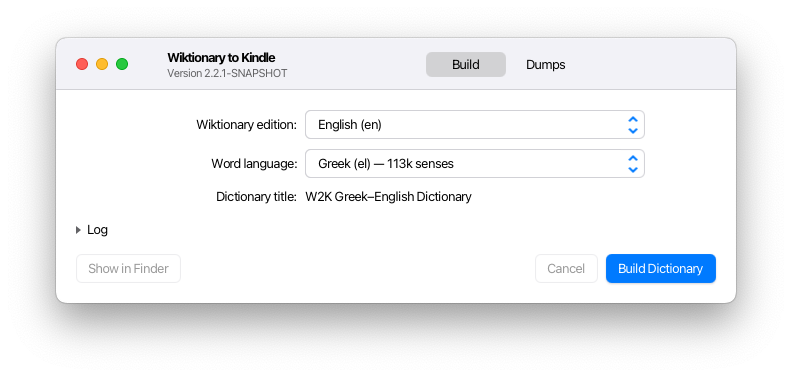
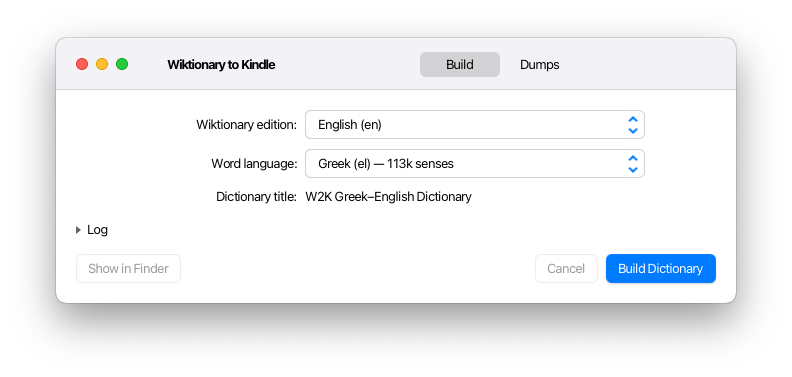
fix(gui): fix header dragging and ⌘, and move the macOS version to About (#112)

Changed region(s): [[0.5152, 0.1459, 0.7273, 0.2042], [0.2121, 0.1167, 0.3636, 0.2042]]

diff --git a/src/main/resources/edu/self/w2k/gui/app.css b/src/main/resources/edu/self/w2k/gui/app.css
@@ -25,17 +25,8 @@
 }
 
 .window-title {
-    -fx-alignment: center-left;
     -fx-padding: 0 0 0 8px;
-}
-
-.window-title-name {
     -fx-font-weight: bold;
-}
-
-.window-subtitle {
-    -fx-font-size: 11px;
-    -fx-opacity: 0.6;
 }
 
 .segmented {

diff --git a/src/test/java/edu/self/w2k/gui/MainFxmlLoadTest.java b/src/test/java/edu/self/w2k/gui/MainFxmlLoadTest.java
@@ -28,12 +28,14 @@ import javafx.beans.value.ObservableValue;
 import javafx.event.Event;
 import javafx.event.EventType;
 import javafx.fxml.FXMLLoader;
+import javafx.geometry.Bounds;
 import javafx.scene.Node;
 import javafx.scene.Parent;
 import javafx.scene.Scene;
 import javafx.scene.control.Button;
 import javafx.scene.control.ComboBox;
 import javafx.scene.control.IndexedCell;
+import javafx.scene.control.Label;
 import javafx.scene.control.ListCell;
 import javafx.scene.control.ListView;
 import javafx.scene.control.MenuBar;
@@ -44,10 +46,12 @@ import javafx.scene.control.skin.ComboBoxListViewSkin;
 import javafx.scene.control.skin.VirtualFlow;
 import javafx.scene.layout.BorderPane;
 import javafx.scene.layout.HBox;
+import javafx.scene.layout.HeaderBar;
 import javafx.scene.layout.VBox;
 import javafx.scene.text.Text;
 import javafx.scene.input.Clipboard;
 import javafx.scene.input.KeyCode;
+import javafx.scene.input.KeyCombination;
 import javafx.scene.input.KeyEvent;
 import javafx.scene.input.MouseButton;
 import javafx.scene.input.MouseEvent;
@@ -429,7 +433,7 @@ class MainFxmlLoadTest {
 
         assertThat(root.get().getStyleClass()).contains(styleClass);
         assertThat(root.get().lookupAll(".form-label")).first()
-                .extracting(label -> ((javafx.scene.control.Label) label).getText())
+                .extracting(label -> ((Label) label).getText())
                 .isEqualTo(firstLabel);
         assertThat(((HBox) startButton.getParent()).getChildren().stream()
                            .filter(Button.class::isInstance)
@@ -439,6 +443,96 @@ class MainFxmlLoadTest {
         assertThat(menuBar.isManaged()).as("menu bar laid out in the window").isEqualTo(menuBarInWindow);
         assertThat(primaryMenuButton.isVisible()).as("primary menu button shown").isEqualTo(primaryMenu);
         assertThat(primaryMenuButton.getItems().isEmpty()).isEqualTo(!primaryMenu);
+    }
+
+    @ParameterizedTest
+    @CsvSource({
+            "MACOS, Shortcut+Comma",
+            "GNOME, Shortcut+Q",
+    })
+    void should_answer_the_shortcut_on_the_scene_when_the_desktop_menus_cannot(DesktopPlatform platform,
+                                                                               String shortcut)
+            throws Exception {
+        if (!toolkitReady) {
+            abort("No JavaFX toolkit available");
+        }
+
+        AtomicReference<Parent> root = new AtomicReference<>();
+        MainController controller = loadOnFxThread(root, platform);
+        AtomicReference<Scene> scene = new AtomicReference<>();
+
+        onFxThread(() -> {
+            scene.set(new Scene(root.get()));
+            controller.attachTo(new Stage());
+        });
+
+        assertThat(scene.get().getAccelerators()).containsKey(KeyCombination.keyCombination(shortcut));
+    }
+
+    @Test
+    void should_title_the_macos_header_with_the_app_name_alone_when_attached_to_a_stage() throws Exception {
+        if (!toolkitReady) {
+            abort("No JavaFX toolkit available");
+        }
+
+        AtomicReference<Parent> root = new AtomicReference<>();
+        MainController controller = loadOnFxThread(root, DesktopPlatform.MACOS);
+        Label windowTitle = readField(controller, "windowTitle", Label.class);
+
+        onFxThread(() -> {
+            new Scene(root.get());
+            controller.attachTo(new Stage());
+        });
+
+        assertThat(windowTitle.isVisible()).isTrue();
+        assertThat(windowTitle.getText()).isEqualTo("Wiktionary to Kindle");
+    }
+
+    @ParameterizedTest
+    @CsvSource({"MACOS", "GNOME"})
+    void should_drag_the_window_from_anywhere_in_the_header_but_its_buttons_when_it_is_the_title_bar(
+            DesktopPlatform platform) throws Exception {
+        if (!toolkitReady) {
+            abort("No JavaFX toolkit available");
+        }
+
+        AtomicReference<Parent> root = new AtomicReference<>();
+        MainController controller = loadOnFxThread(root, platform);
+        HeaderBar headerBar = readField(controller, "headerBar", HeaderBar.class);
+        Node switcher = readField(controller, "pageSwitcher", Node.class);
+        Node buildPageButton = readField(controller, "buildPageButton", Node.class);
+        Node dumpsPageButton = readField(controller, "dumpsPageButton", Node.class);
+        AtomicReference<Scene> scene = new AtomicReference<>();
+        AtomicReference<Stage> stage = new AtomicReference<>();
+        CountDownLatch laidOut = new CountDownLatch(1);
+
+        onFxThread(() -> {
+            scene.set(new Scene(root.get(), 680, 400));
+            scene.get().getStylesheets().add(App.class.getResource(App.STYLESHEET).toExternalForm());
+            scene.get().addPostLayoutPulseListener(laidOut::countDown);
+            stage.set(new Stage());
+            controller.attachTo(stage.get());
+            stage.get().setScene(scene.get());
+            stage.get().setX(-4000);
+            stage.get().show();
+            Platform.requestNextPulse();
+        });
+        assertThat(laidOut.await(30, TimeUnit.SECONDS)).as("layout pulse timed out").isTrue();
+
+        Bounds bar = headerBar.localToScene(headerBar.getLayoutBounds());
+        Bounds slot = switcher.localToScene(switcher.getLayoutBounds());
+        Bounds first = buildPageButton.localToScene(buildPageButton.getLayoutBounds());
+        Bounds last = dumpsPageButton.localToScene(dumpsPageButton.getLayoutBounds());
+        double middle = bar.getCenterY();
+        assertThat(headerArea(scene.get(), (bar.getMinX() + slot.getMinX()) / 2, middle)).as("left of the switcher")
+                .isEqualTo("DRAGBAR");
+        assertThat(headerArea(scene.get(), (slot.getMinX() + first.getMinX()) / 2, middle))
+                .as("between the switcher's edge and its first button").isEqualTo("DRAGBAR");
+        assertThat(headerArea(scene.get(), (last.getMaxX() + slot.getMaxX()) / 2, middle))
+                .as("between the switcher's last button and its edge").isEqualTo("DRAGBAR");
+        assertThat(headerArea(scene.get(), first.getCenterX(), first.getCenterY())).as("a switcher button")
+                .isNotEqualTo("DRAGBAR");
+        onFxThread(() -> stage.get().hide());
     }
 
     @Test
@@ -760,6 +854,26 @@ class MainFxmlLoadTest {
                 .contains("created on the first download");
         assertThat(MainController.dumpsPlaceholder(Path.of(System.getProperty("java.io.tmpdir"))))
                 .isEqualTo("No dumps downloaded yet.");
+    }
+
+    /** JavaFX exposes no public hit test for the draggable header area, so this asks the one glass uses. */
+    private static String headerArea(Scene scene, double x, double y) throws Exception {
+        Class<?> listenerType = Class.forName("javafx.scene.Scene$ScenePeerListener");
+        var constructor = listenerType.getDeclaredConstructor(Scene.class);
+        constructor.setAccessible(true);
+        Object listener = constructor.newInstance(scene);
+        var pick = listenerType.getMethod("pickHeaderArea", double.class, double.class);
+        pick.setAccessible(true);
+        AtomicReference<Object> area = new AtomicReference<>();
+        onFxThread(() -> {
+            try {
+                area.set(pick.invoke(listener, x, y));
+            }
+            catch (ReflectiveOperationException e) {
+                throw new IllegalStateException(e);
+            }
+        });
+        return String.valueOf(area.get());
     }
 
     private static void onFxThread(Runnable action) throws Exception {

diff --git a/src/main/java/edu/self/w2k/gui/MainController.java b/src/main/java/edu/self/w2k/gui/MainController.java
@@ -32,6 +32,7 @@ import javafx.collections.FXCollections;
 import javafx.css.PseudoClass;
 import javafx.fxml.FXML;
 import javafx.scene.Node;
+import javafx.scene.Scene;
 import javafx.scene.control.Alert;
 import javafx.scene.control.Button;
 import javafx.scene.control.ComboBox;
@@ -47,10 +48,10 @@ import javafx.scene.control.TableView;
 import javafx.scene.control.ToggleButton;
 import javafx.scene.control.ToggleGroup;
 import javafx.scene.control.skin.VirtualFlow;
-import javafx.scene.input.KeyCombination;
 import javafx.scene.layout.BorderPane;
 import javafx.scene.layout.HBox;
 import javafx.scene.layout.HeaderBar;
+import javafx.scene.layout.HeaderDragType;
 import javafx.scene.layout.Region;
 import javafx.scene.layout.VBox;
 import javafx.stage.Stage;
@@ -98,9 +99,7 @@ public class MainController {
     @FXML private HeaderBar headerBar;
     @FXML private HBox pageSwitcher;
     @FXML private MenuButton primaryMenuButton;
-    @FXML private VBox windowTitle;
-    @FXML private Label windowTitleName;
-    @FXML private Label windowSubtitle;
+    @FXML private Label windowTitle;
     @FXML private ToggleGroup pageGroup;
     @FXML private ToggleButton buildPageButton;
     @FXML private ToggleButton dumpsPageButton;
@@ -236,6 +235,7 @@ public class MainController {
      */
     private Region balancingSpacer(Stage stage) {
         Region spacer = new Region();
+        HeaderBar.setDragType(spacer, HeaderDragType.DRAGGABLE);
         spacer.minWidthProperty().bind(Bindings.createDoubleBinding(
                 () -> Math.max(0, primaryMenuButton.getWidth()
                                   + HeaderBar.getRightSystemInset(stage).getWidth()
@@ -260,8 +260,7 @@ public class MainController {
             stage.initStyle(StageStyle.EXTENDED);
         }
         if (platform == DesktopPlatform.MACOS) {
-            windowTitleName.setText(AppInfo.DISPLAY_NAME);
-            windowSubtitle.setText("Version " + AppVersion.get());
+            windowTitle.setText(AppInfo.DISPLAY_NAME);
             windowTitle.setVisible(true);
             headerBar.setMinHeight(UNIFIED_TITLE_BAR_HEIGHT);
             HeaderBar.setSystemButtonHeight(stage, UNIFIED_TITLE_BAR_HEIGHT);
@@ -270,8 +269,18 @@ public class MainController {
             headerBar.setMinHeight(GNOME_HEADER_BAR_HEIGHT);
             headerBar.setLeft(balancingSpacer(stage));
         }
-        if (platform.hasQuitShortcut() && root.getScene() != null) {
-            root.getScene().getAccelerators().put(KeyCombination.keyCombination("Shortcut+Q"), Platform::exit);
+        if (root.getScene() != null) {
+            addSceneShortcuts(root.getScene());
+        }
+    }
+
+    private void addSceneShortcuts(Scene scene) {
+        if (platform.hasQuitShortcut()) {
+            scene.getAccelerators().put(AppMenus.QUIT_SHORTCUT, Platform::exit);
+        }
+        // macOS drops the system menu's key equivalent whenever a text field has focus, so the scene answers it too.
+        if (platform.menuStyle() == DesktopPlatform.MenuStyle.SYSTEM_MENU_BAR) {
+            scene.getAccelerators().put(AppMenus.SETTINGS_SHORTCUT, this::onPreferences);
         }
     }
 

diff --git a/src/main/java/edu/self/w2k/gui/AppMenus.java b/src/main/java/edu/self/w2k/gui/AppMenus.java
@@ -16,7 +16,9 @@ final class AppMenus {
 
     static final String ABOUT = "About " + AppInfo.DISPLAY_NAME;
 
-    private static final String SETTINGS_SHORTCUT = "Shortcut+Comma";
+    static final KeyCombination SETTINGS_SHORTCUT = KeyCombination.keyCombination("Shortcut+Comma");
+
+    static final KeyCombination QUIT_SHORTCUT = KeyCombination.keyCombination("Shortcut+Q");
 
     record Actions(Runnable settings, Runnable about, Runnable quit) {
     }
@@ -26,15 +28,17 @@ final class AppMenus {
 
     static List<Menu> menuBar(DesktopPlatform platform, Actions actions) {
         return switch (platform) {
-            case MACOS -> List.of(menu("File", item("Settings…", SETTINGS_SHORTCUT, actions.settings())));
+            case MACOS -> List.of(menu("File", item("Settings…", SETTINGS_SHORTCUT, actions.settings())),
+                                  menu("Help", item(ABOUT, null, actions.about())));
             case WINDOWS -> List.of(menu("_File",
                                          item("_Settings…", SETTINGS_SHORTCUT, actions.settings()),
                                          new SeparatorMenuItem(),
                                          item("E_xit", null, actions.quit())),
                                     menu("_Help", item("_" + ABOUT, null, actions.about())));
-            case KDE -> List.of(menu("_File", item("_Quit", "Shortcut+Q", actions.quit())),
+            case KDE -> List.of(menu("_File", item("_Quit", QUIT_SHORTCUT, actions.quit())),
                                 menu("_Settings",
-                                     item("_Configure " + AppInfo.DISPLAY_NAME + "…", "Shortcut+Shift+Comma",
+                                     item("_Configure " + AppInfo.DISPLAY_NAME + "…",
+                                          KeyCombination.keyCombination("Shortcut+Shift+Comma"),
                                           actions.settings())),
                                 menu("_Help", item("_" + ABOUT, null, actions.about())));
             case GNOME -> List.of();
@@ -54,11 +58,9 @@ final class AppMenus {
         return new Menu(text, null, items);
     }
 
-    private static MenuItem item(String text, String accelerator, Runnable action) {
+    private static MenuItem item(String text, KeyCombination accelerator, Runnable action) {
         MenuItem item = new MenuItem(text);
-        if (accelerator != null) {
-            item.setAccelerator(KeyCombination.keyCombination(accelerator));
-        }
+        item.setAccelerator(accelerator);
         item.setOnAction(_ -> action.run());
         return item;
     }

diff --git a/src/test/java/edu/self/w2k/gui/AppMenusTest.java b/src/test/java/edu/self/w2k/gui/AppMenusTest.java
@@ -53,7 +53,7 @@ class AppMenusTest {
     }
 
     @Test
-    void should_offer_only_settings_when_on_macos() {
+    void should_put_settings_under_file_and_about_under_help_when_on_macos() {
         // Given
         AppMenus.Actions actions = new AppMenus.Actions(settings, about, quit);
 
@@ -61,10 +61,12 @@ class AppMenusTest {
         List<Menu> menus = AppMenus.menuBar(DesktopPlatform.MACOS, actions);
 
         // Then
-        assertThat(menus).extracting(Menu::getText).containsExactly("File");
+        assertThat(menus).extracting(Menu::getText).containsExactly("File", "Help");
         assertThat(menus.getFirst().getItems()).extracting(MenuItem::getText).containsExactly("Settings…");
         assertThat(menus.getFirst().getItems().getFirst().getAccelerator())
                 .isEqualTo(KeyCombination.keyCombination("Shortcut+Comma"));
+        assertThat(menus.getLast().getItems()).extracting(MenuItem::getText)
+                .containsExactly("About Wiktionary to Kindle");
     }
 
     @Test

diff --git a/AGENTS.md b/AGENTS.md
@@ -143,11 +143,11 @@ Gloss and example text is XML-escaped with `StringEscapeUtils.escapeXml10`; inte
 - **The bundled properties files are UTF-8, so they are read through a `Reader`.** `Properties.load(InputStream)` decodes ISO-8859-1 whatever the file actually is, and a handful of kaikki codes are not ASCII — `solrésol`, `bété`, `grec cargésien`, `tsolyáni` — so the alias table was loaded as mojibake and the picker rendered `Solrésol (solrÃ©sol)` back at the user (issue #85). `LanguageCodeResolver` and `LanguageCatalog` both pass an explicit UTF-8 `InputStreamReader` to `load`. `Preferences` deliberately does not: it both writes and reads its file with the `Properties` escaping rules, so it round-trips any character already, and switching one side alone would break existing files.
 - **The theme is a preference; the platform only picks its default.** `AppTheme` (in `config`, so `Preferences` stays JavaFX-free for the CLI) has three values, `JAVAFX`, `CUPERTINO` and `PRIMER`, persisted as `theme=javafx|cupertino|primer`; `AppTheme.defaultFor(osName)` returns `CUPERTINO` on macOS and `PRIMER` everywhere else, since Cupertino is a macOS look and Primer's flat, lightly rounded controls are far nearer Windows 11 and GNOME than Modena's gradients — but an explicit choice is still the user's to make, and a saved `theme=javafx` keeps Modena. An unreadable or unknown value falls back to that default rather than failing. `SystemTheme.install(scene, choice)` takes `MainController.themeChoice()` — `preferencesProperty().map(Preferences::theme)` — so pressing OK in Preferences restyles the open window with no restart and nothing to wire in `onPreferences`. Under `CUPERTINO` or `PRIMER` it applies that theme's light or dark variant (`SystemTheme.themeFor`) from `Platform.getPreferences().getColorScheme()` and re-applies from a listener on `colorSchemeProperty()`, following System Settings live; under `JAVAFX` it restores `Application.STYLESHEET_MODENA` **and removes `app-atlantafx.css` from the scene**, which is not optional — its rules name AtlantaFX tokens that resolve to nothing under Modena. Any failure degrades at `debug` to the untouched default, same rule as the kaikki fetches. `MainController.dressDialog` copies the main scene's stylesheets and the platform style class onto every dialog pane it opens, which otherwise inherits the user agent stylesheet but none of the app's own classes, nor the fonts and spacing the platform class sets. `app.css` is written against Modena tokens and always loaded; `app-atlantafx.css` restates the handful of rules whose tokens AtlantaFX does not define — notably `-fx-selection-bar`, which has no AtlantaFX equivalent and would leave selected log lines unpainted — and is added to the scene only when the theme is installed. Keep new colours out of `app.css` for that reason: a token from one theme is an unresolved lookup in the other. The same sheet re-states the row metrics, which were measured against Modena: Cupertino pads a drop-down cell by 6px top and bottom, so `app.css`'s `-fx-fixed-cell-size: 24px` cut every language name in half, and it sizes list rows at `3em`, which made log lines 34.5px instead of 16px. `MainFxmlLoadTest.should_keep_list_rows_compact_and_unclipped_under_the_cupertino_theme` locks both in by measuring real cells; it also needs `Platform.setImplicitExit(false)`, since it shows a window and closing the last one would take the toolkit down for every later test. The shade config also filters `module-info.class`, since atlantafx-base is an explicit module and its descriptor would otherwise land at the root of the fat JAR and make it claim to be `atlantafx.base`.
 - **Each desktop gets its own window conventions, all decided in `DesktopPlatform`.** `DesktopPlatform.current()` splits Linux by `XDG_CURRENT_DESKTOP` (a colon-separated list; any `KDE` entry means KDE, anything else GNOME), since GNOME and KDE disagree on nearly every point. `MainController` takes the platform as a constructor argument, so `MainFxmlLoadTest` builds the window for all four on any host; `attachTo(stage)` applies what needs the stage and must run before it is shown. The root gets the platform's style class (`macos`, `windows`, `gnome`, `kde`), and every per-desktop rule in the stylesheets hangs off it — body font sizes, form layout, tabs, the disclosure arrow. In summary:
-  - **macOS** — extended stage; the header is the title bar, with title, version subtitle and a centred Finder-style switcher. Passing the 52px toolbar height to `HeaderBar.setSystemButtonHeight` is what centres the traffic lights: without it macOS keeps the 28px title bar's 68×28 button area at the top of the taller header, and with it the area becomes 90×52, as in a native unified toolbar. System menu bar with File › Settings…; JavaFX has no API for the app menu, so there is no About. Centred form, right-aligned labels ending in a colon, Cancel before the default button, title-case labels.
+  - **macOS** — extended stage; the header is the title bar, with the app's name as its title and a centred Finder-style switcher; the version is left to About, as on any Mac app. Passing the 52px toolbar height to `HeaderBar.setSystemButtonHeight` is what centres the traffic lights: without it macOS keeps the 28px title bar's 68×28 button area at the top of the taller header, and with it the area becomes 90×52, as in a native unified toolbar. System menu bar with File › Settings… and Help › About; both belong in the app menu, but JavaFX has no API for it. ⌘, is also put on the scene's accelerators, because macOS never hands the menu its key equivalent while a text field has focus — the language pickers are editable, so without it the shortcut did nothing in the very fields a user starts in. Centred form, right-aligned labels ending in a colon, Cancel before the default button, title-case labels.
   - **Windows** — decorated stage, because the system title bar is what provides Snap Layouts. In-window menu bar, File (Settings…, Exit) and Help (About), with access keys. Left-aligned tabs underlined in the accent colour, the form and its labels aligned left without colons, the primary button first, sentence case ("Build dictionary", "Open file location"), 14px body text as in WinUI.
   - **GNOME** — extended stage drawn as a libadwaita header bar: JavaFX paints round Adwaita-style window buttons itself (`WindowDecorationGnome.css` in the Linux graphics jar). Centred view switcher and a ☰ primary menu (Preferences, About) instead of a menu bar, with Ctrl+Q bound on the scene since the menu carries no Quit. HeaderBar centres its centre slot between the side slots, not on the bar, so `balancingSpacer` puts a left spacer as wide as the menu button and the window buttons. The form is a boxed list on a grey page, buttons are borderless except the suggested one, labels take no colon, Cancel comes before the primary button, 11pt text.
   - **KDE** — decorated stage, since KWin draws its own title bar. Menu bar with File (Quit), Settings (Configure Wiktionary to Kindle…, Ctrl+Shift+,) and Help (About). Tabs like Windows, but the form like macOS: centred, right-aligned labels with colons. Primary button first, title case, 10pt text.
-- **Shared window mechanics.** The pages are a `ToggleGroup` of two segments over a `StackPane`, not a `TabPane`; the group's listener re-selects the previous segment when the selected one is clicked, since a toggle group otherwise allows none and the window would go blank. Where the switcher leads the header (Windows, KDE) it moves to the left slot, because the centre slot keeps its child centred. The menu bar is built in code (`AppMenus`); `useSystemMenuBar` is set only on macOS, where the bar stays visible — its skin is what installs the system menus — but unmanaged, or its padding leaves a strip across the top of the window. The form is a column of `form-row` HBoxes rather than a `GridPane`, so the stylesheet alone can turn it into a right-aligned column, a left-aligned one or a boxed list. The log is a disclosure, closed at launch and opened by a failure, and `resizeWindowForLog` grows or shrinks the window by its height, since the launch window is sized without it and opening it in place would give it no room. The status and progress bar live in the footer and are hidden, not unmanaged, because that box is also the spacer between the buttons. Colours follow the theme rule above: tokens in `app.css` are Modena's, and every rule that names one is restated with AtlantaFX tokens in `app-atlantafx.css` — written with the platform class in its selector where `app.css` has one, or the shared AtlantaFX rule outranks it.
+- **Shared window mechanics.** The pages are a `ToggleGroup` of two segments over a `StackPane`, not a `TabPane`; the group's listener re-selects the previous segment when the selected one is clicked, since a toggle group otherwise allows none and the window would go blank. Where the switcher leads the header (Windows, KDE) it moves to the left slot, because the centre slot keeps its child centred. On an extended stage only the `HeaderBar`'s own background drags the window, and any child blocks it unless it carries a `HeaderBar.dragType`; the centre slot stretches the switcher's HBox across the bar, so without one only its margins dragged. The title takes `DRAGGABLE_SUBTREE`, so its text drags too, and the switcher and GNOME's balancing spacer take `DRAGGABLE`, which leaves the buttons inside them clickable. JavaFX has no public hit test for it, so `MainFxmlLoadTest` reaches `Scene$ScenePeerListener.pickHeaderArea`, the one glass calls, through reflection. The menu bar is built in code (`AppMenus`); `useSystemMenuBar` is set only on macOS, where the bar stays visible — its skin is what installs the system menus — but unmanaged, or its padding leaves a strip across the top of the window. The form is a column of `form-row` HBoxes rather than a `GridPane`, so the stylesheet alone can turn it into a right-aligned column, a left-aligned one or a boxed list. The log is a disclosure, closed at launch and opened by a failure, and `resizeWindowForLog` grows or shrinks the window by its height, since the launch window is sized without it and opening it in place would give it no room. The status and progress bar live in the footer and are hidden, not unmanaged, because that box is also the spacer between the buttons. Colours follow the theme rule above: tokens in `app.css` are Modena's, and every rule that names one is restated with AtlantaFX tokens in `app-atlantafx.css` — written with the platform class in its selector where `app.css` has one, or the shared AtlantaFX rule outranks it.
 - **Logging** uses SLF4J 2.x with Logback Classic. `@Slf4j` (Lombok) is used on all classes. `logback.xml` configures the CLI console only; the GUI adds `UiLogAppender` and a file appender **programmatically**, so CLI output is untouched. `LogFile.install` is that file appender: a `RollingFileAppender` rolling daily, active file `app.log`, each day's predecessor compressed beside it as `app-{YYYY-MM-DD}.log.gz`, `maxHistory` 14 days and a 200 MB `totalSizeCap`. It appends rather than truncating at startup, which is what the old `FileAppender` did — truncation was the only thing bounding the file, and it cost the user every earlier session in the same sitting, so a crash reproduced on the second run erased the evidence of the first. `cleanHistoryOnStart` is set because a rolling policy prunes when it rolls and a desktop app opened and closed within a day may go weeks without rolling. Extracted from `App` so it is testable: `App` is in `sonar.coverage.exclusions`, and a bare `LoggerContext` in a test needs `setMDCAdapter(new LogbackMDCAdapter())` or every append fails on a null adapter. `UiLogAppender` buffers into a bounded queue the UI drains in batches — never one `Platform.runLater` per event, which would freeze the window. The drain `Timeline` parks itself after ~2 s idle and `UiLogAppender.setWakeListener` restarts it, so an idle window is not held awake by a permanently running animation. `LogClipboard` makes the pane's lines copyable — multiple selection, `Shortcut+C`, and a Copy / Copy all context menu — because a `ListView` is not a text control and carries no copy behaviour of its own, which left a failure the user wanted to paste into a bug report retypeable only by hand.
 - **Subprocesses**: `KindlingDictionaryConverter.defaultRunner()` pumps merged stdout/stderr through SLF4J. Do not switch it back to `inheritIO()` — a windowed app has no terminal, so the output would vanish.
 - **Jackson** is used for JSONL parsing. Model records carry `@JsonIgnoreProperties(ignoreUnknown = true)`. `ObjectMapper` is configured with `Nulls.AS_EMPTY` so missing collection fields default to empty lists. The `ObjectReader` is reused across all lines for efficiency.
